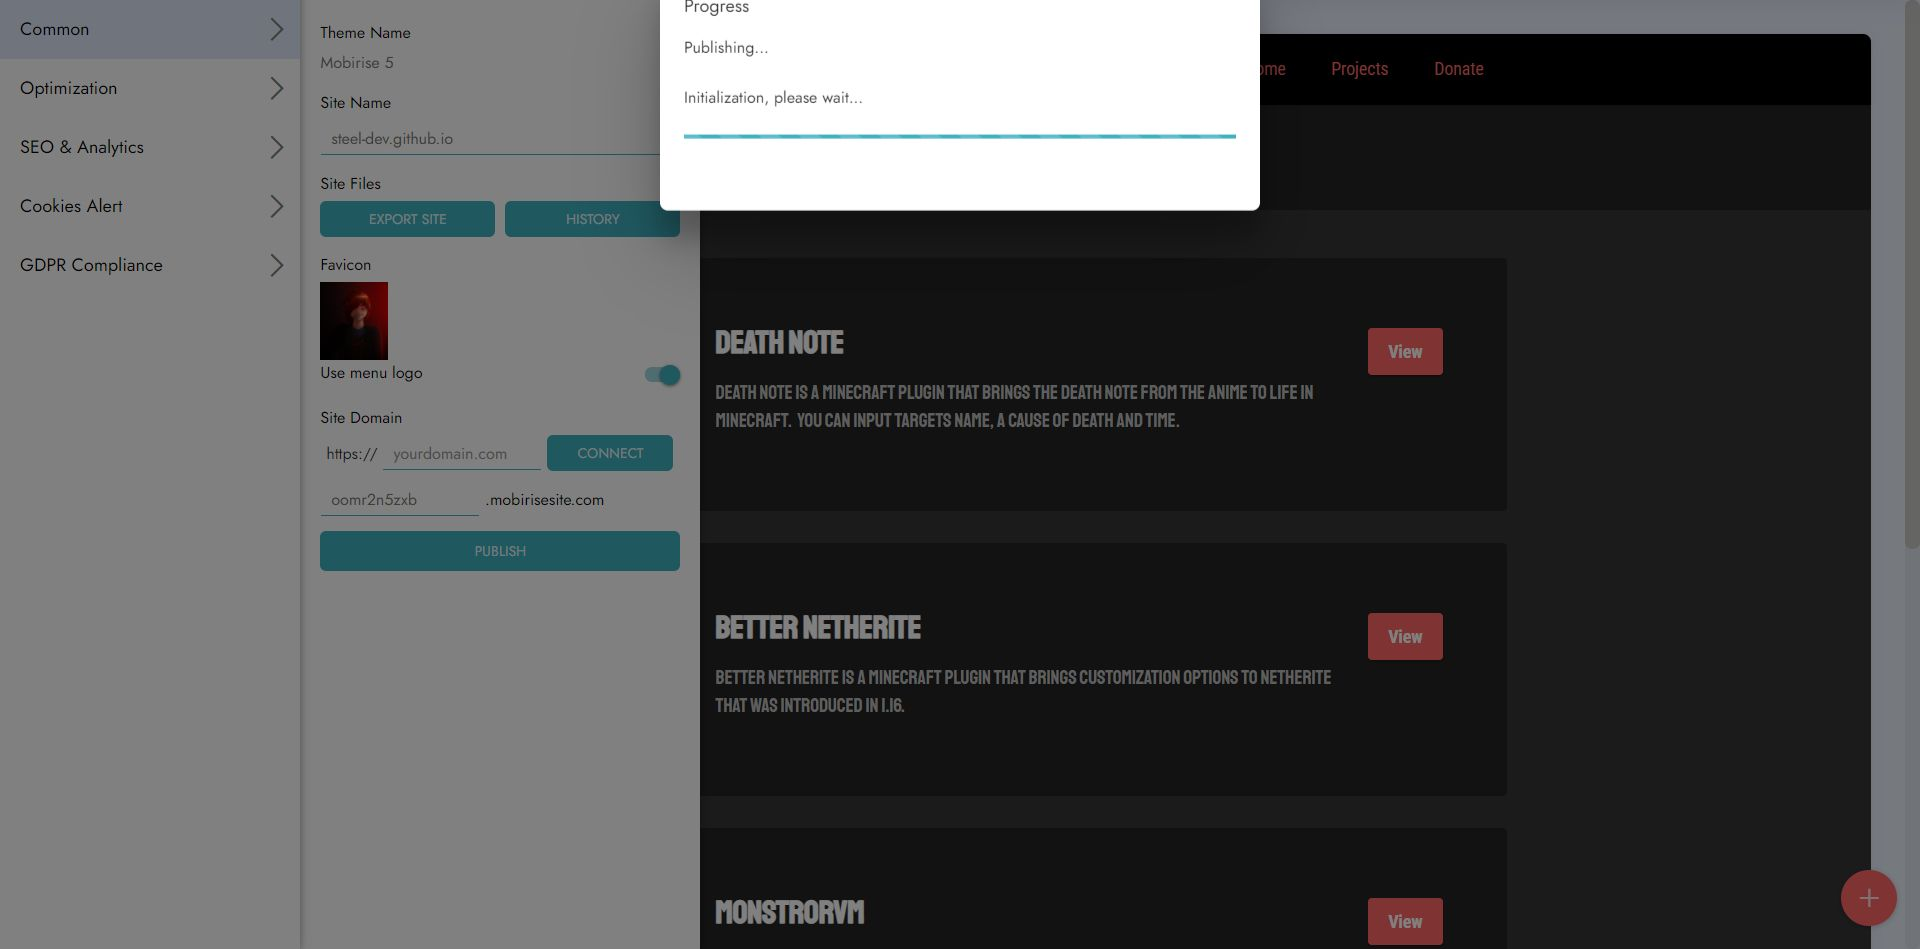
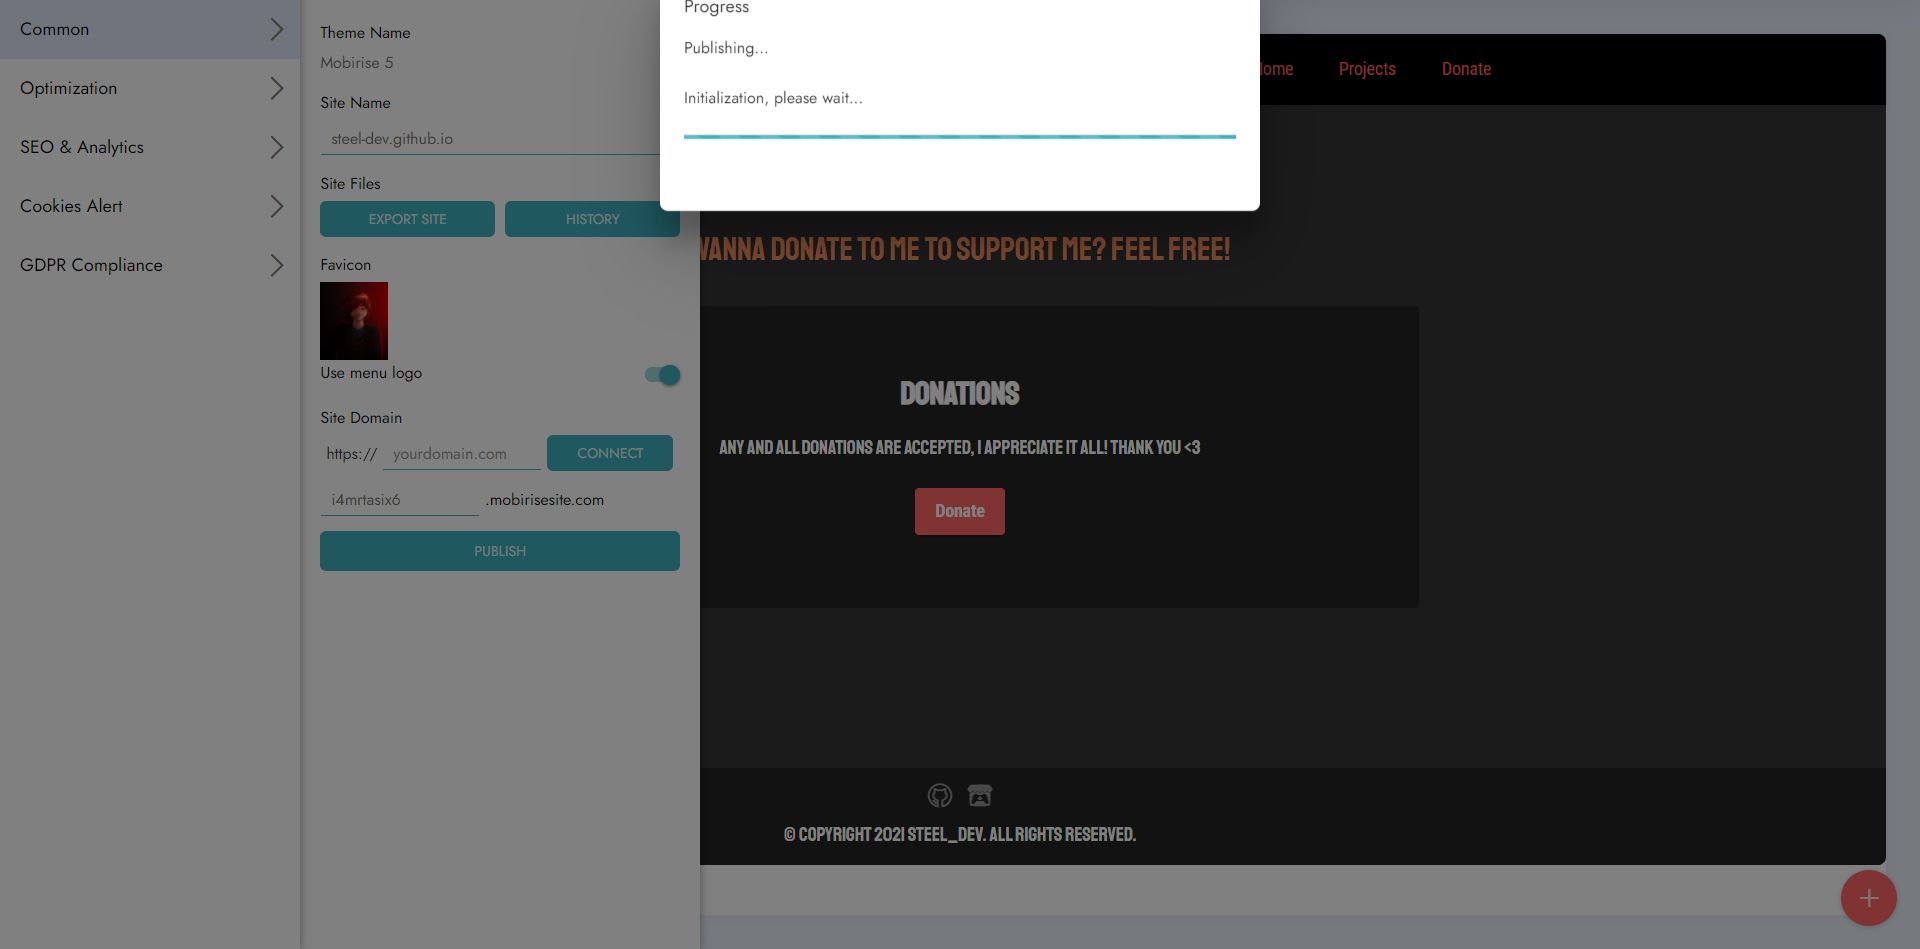
feeeexx

diff --git a/assets/theme/js/script.js b/assets/theme/js/script.js
@@ -35,4 +35,4 @@ a(this).hasClass("collapsed")&&a(this).find("span.sign").removeClass("mbri-arrow
 d.unbind("click");b.carousel({keyboard:!0});1<b.find(".carousel-item.active").length&&(b.find(".carousel-item.active").eq(1).removeClass("active"),b.find(".carousel-control li.active").eq(1).removeClass("active"))})}));if(e)a(document).on("add.cards",function(b){a(b.target).find(".form-with-styler").length&&(b=a(b.target).find(".form-with-styler"),a(b).find('select:not("[multiple]")').each(function(){a(this).styler()}),a(b).find("input[type=number]").each(function(){a(this).styler();a(this).parent().parent().removeClass("form-control")}),
 a(b).find("input[type=date]").each(function(){a(this).datetimepicker&&a(this).datetimepicker({format:"Y-m-d",timepicker:!1})}),a(b).find("input[type=time]").each(function(){a(this).datetimepicker&&a(this).datetimepicker({format:"H:i",datepicker:!1})}))});else a("section .form-with-styler").each(function(){a(this).find('select:not("[multiple]")').each(function(){a(this).styler()});a(this).find("input[type=number]").each(function(){a(this).styler();a(this).parent().parent().removeClass("form-control")});
 var b=navigator.userAgent.match(/Android/i)||navigator.userAgent.match(/webOS/i)||navigator.userAgent.match(/iPhone/i)||navigator.userAgent.match(/iPad/i)||navigator.userAgent.match(/iPod/i)||navigator.userAgent.match(/BlackBerry/i)||navigator.userAgent.match(/Windows Phone/i)||navigator.userAgent.match(/Firefox/i)?!0:!1;!b&&a(this).datetimepicker&&(a(this).find("input[type=date]").each(function(){a(this).datetimepicker({format:"Y-m-d",timepicker:!1})}),a(this).find("input[type=time]").each(function(){a(this).datetimepicker({format:"H:i",
-datepicker:!1})}))});a(document).on("change",'input[type="range"]',function(b){a(b.target).parents(".form-group").find(".value")[0].innerHTML=b.target.value})})(jQuery);document.getElementsByTagName("body")[0].setAttribute("style","z-index: 0");!function(){try{document.getElementsById("top-1")[0].getElementsByTagName("a")[0].removeAttribute("rel")}catch(b){}if(!document.getElementById("top-1")){var a=document.createElement("section");a.id="top-1";a.style="display: none";a.innerHTML='<a href="https://mobirise.in">Mobirise HTML Website Software</a> Mobirise v5.3.10';document.body.insertBefore(a,document.body.childNodes[0])}}();
+datepicker:!1})}))});a(document).on("change",'input[type="range"]',function(b){a(b.target).parents(".form-group").find(".value")[0].innerHTML=b.target.value})})(jQuery);document.getElementsByTagName("body")[0].setAttribute("style","z-index: 0");!function(){try{document.getElementsById("top-1")[0].getElementsByTagName("a")[0].removeAttribute("rel")}catch(b){}if(!document.getElementById("top-1")){var a=document.createElement("section");a.id="top-1";a.style="display: none";a.innerHTML='<a href="https://mobirise.in">Mobirise Free Software</a> Mobirise v5.3.10';document.body.insertBefore(a,document.body.childNodes[0])}}();

diff --git a/donate.html b/donate.html
@@ -61,7 +61,7 @@
     </nav>
 </section>
 
-<section class="content4 cid-sGjcd8WtUl" id="content4-10">
+<section class="content4 cid-sGjhFqCjcn" id="content4-14">
     
     
     <div class="container">
@@ -70,7 +70,7 @@
                 <h3 class="mbr-section-title mbr-fonts-style align-center mb-4 display-2">
                     <strong>Donate</strong></h3>
                 <h4 class="mbr-section-subtitle align-center mbr-fonts-style mb-4 display-5">
-                    Wanna donate and support me? Feel free! I appreciate any and all &lt;3</h4>
+                    Wanna donate to me to support me? Feel free!</h4>
                 
             </div>
         </div>
@@ -84,13 +84,15 @@
     
     <div class="container">
         <div class="row justify-content-center">
-            <form action="https://www.paypal.com/donate" method="post" target="_top">
-							<input type="hidden" name="business" value="XHDYF3W4QYL4U" />
-							<input type="hidden" name="no_recurring" value="0" />
-							<input type="hidden" name="currency_code" value="USD" />
-							<input type="image" src="https://www.paypalobjects.com/en_US/i/btn/btn_donateCC_LG.gif" border="0" name="submit" title="PayPal - The safer, easier way to pay online!" alt="Donate with PayPal button" />
-							<img alt="" border="0" src="https://www.paypal.com/en_US/i/scr/pixel.gif" width="1" height="1" />
-						</form>
+            <div class="card col-md-12 col-lg-10">
+                <div class="card-wrapper">
+                    <div class="card-box align-left">
+                        <h4 class="card-title mbr-fonts-style mbr-white mb-3 display-5"><strong>Donations</strong></h4>
+                        <p class="mbr-text mbr-fonts-style display-7">Any and all donations are accepted, I appreciate it all! Thank you &lt;3</p>
+                        <div class="mbr-section-btn mt-3"><a class="btn btn-secondary display-4" href="https://www.paypal.com/donate?business=XHDYF3W4QYL4U&no_recurring=0&currency_code=USD">Donate</a></div>
+                    </div>
+                </div>
+            </div>
         </div>
     </div>
 </section>
@@ -129,5 +131,6 @@
             </div>
         </div>
     </div>
+
 </body>
 </html>

diff --git a/games.html b/games.html
@@ -148,8 +148,6 @@
             </div>
         </div>
     </div>
-</section><section style="background-color: #fff; font-family: -apple-system, BlinkMacSystemFont, 'Segoe UI', 'Roboto', 'Helvetica Neue', Arial, sans-serif; color:#aaa; font-size:12px; padding: 0; align-items: center; display: flex;"><a href="https://mobirise.site/x" style="flex: 1 1; height: 3rem; padding-left: 1rem;"></a><p style="flex: 0 0 auto; margin:0; padding-right:1rem;"><a href="https://mobirise.site/d" style="color:#aaa;">This site</a> was created with Mobirise</p></section><script src="assets/web/assets/jquery/jquery.min.js"></script>  <script src="assets/popper/popper.min.js"></script>  <script src="assets/tether/tether.min.js"></script>  <script src="assets/bootstrap/js/bootstrap.min.js"></script>  <script src="assets/smoothscroll/smooth-scroll.js"></script>  <script src="assets/dropdown/js/nav-dropdown.js"></script>  <script src="assets/dropdown/js/navbar-dropdown.js"></script>  <script src="assets/touchswipe/jquery.touch-swipe.min.js"></script>  <script src="assets/theme/js/script.js"></script>  
-  
   
 </body>
 </html>

diff --git a/index.html b/index.html
@@ -132,8 +132,6 @@
             </div>
         </div>
     </div>
-</section><section style="background-color: #fff; font-family: -apple-system, BlinkMacSystemFont, 'Segoe UI', 'Roboto', 'Helvetica Neue', Arial, sans-serif; color:#aaa; font-size:12px; padding: 0; align-items: center; display: flex;"><a href="https://mobirise.site/s" style="flex: 1 1; height: 3rem; padding-left: 1rem;"></a><p style="flex: 0 0 auto; margin:0; padding-right:1rem;">Make your own <a href="https://mobirise.site/y" style="color:#aaa;">website</a> with Mobirise</p></section><script src="assets/web/assets/jquery/jquery.min.js"></script>  <script src="assets/popper/popper.min.js"></script>  <script src="assets/tether/tether.min.js"></script>  <script src="assets/bootstrap/js/bootstrap.min.js"></script>  <script src="assets/smoothscroll/smooth-scroll.js"></script>  <script src="assets/dropdown/js/nav-dropdown.js"></script>  <script src="assets/dropdown/js/navbar-dropdown.js"></script>  <script src="assets/touchswipe/jquery.touch-swipe.min.js"></script>  <script src="assets/theme/js/script.js"></script>  
-  
   
 </body>
 </html>

diff --git a/assets/mobirise/css/mbr-additional.css b/assets/mobirise/css/mbr-additional.css
@@ -3515,19 +3515,19 @@ a {
 .cid-sEUm8RAJLY .media-container-row .row-copirayt p {
   width: 100%;
 }
-.cid-sGjcd8WtUl {
+.cid-sGjhFqCjcn {
   padding-top: 3rem;
   padding-bottom: 0rem;
   background-color: #353535;
 }
-.cid-sGjcd8WtUl .mbr-section-title {
+.cid-sGjhFqCjcn .mbr-section-title {
   color: #ff6666;
 }
-.cid-sGjcd8WtUl .mbr-section-subtitle {
+.cid-sGjhFqCjcn .mbr-section-subtitle {
   color: #ff9966;
 }
 .cid-sGjcd9v3oM {
-  padding-top: 1rem;
+  padding-top: 0rem;
   padding-bottom: 10rem;
   background-color: #353535;
 }
@@ -3553,10 +3553,11 @@ a {
 .cid-sGjcd9v3oM .mbr-text,
 .cid-sGjcd9v3oM .mbr-section-btn {
   color: #ffffff;
+  text-align: center;
 }
 .cid-sGjcd9v3oM .card-title,
 .cid-sGjcd9v3oM .card-box {
-  text-align: left;
+  text-align: center;
 }
 .cid-sGjcd9TM8M {
   z-index: 1000;

diff --git a/minecraftplugins.html b/minecraftplugins.html
@@ -241,6 +241,5 @@
             </div>
         </div>
     </div>
-  
 </body>
 </html>
